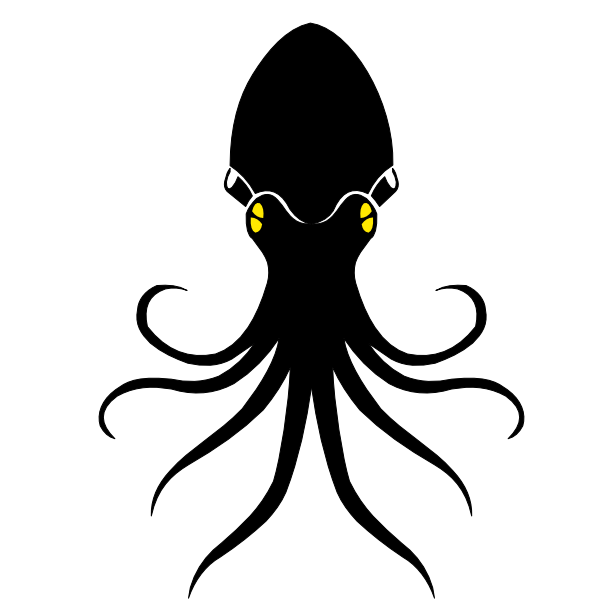
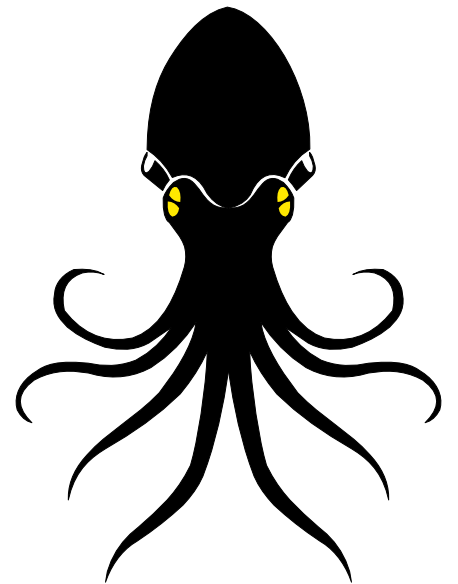
update march six

diff --git a/projects/index.html b/projects/index.html
@@ -11,8 +11,10 @@
         <ul>
             <li><a href="../index.html">Home</a></li>
             <li><a class="projy" href="../projects/index.html">Projects</a><ul>
-                  <li><a href="http://creative.colorado.edu/~dosm6711/dev/doggonauts/index.html">Doggonauts</a></li>
-               <li><a href="http://creative.colorado.edu/~dosm6711/dev/love-letters/index.html">Love Letters</a></li>
+                <li><a href="http://creative.colorado.edu/~dosm6711/dev/animation/index.html">Animation</a></li>
+                <li><a href="http://creative.colorado.edu/~dosm6711/dev/sprite-sheet/index.html">Sprite Sheet</a></li>
+                <li><a href="http://creative.colorado.edu/~dosm6711/dev/doggonauts/index.html">Doggonauts</a></li>
+                <li><a href="http://creative.colorado.edu/~dosm6711/dev/love-letters/index.html">Love Letters</a></li>
                 <li><a href="http://creative.colorado.edu/~dosm6711/web/projects/projects.html">2018</a></li>
                 <li><a href="http://creative.colorado.edu/~dosm6711/web/index.html">2017</a></li>
                 <li><a href="http://creative.colorado.edu/~dosm6711">Other</a></li>
@@ -26,6 +28,8 @@
     </nav>
     <div class="icons">
         <ul>
+          <li><a href="../animation/index.html"><img src="img/animation.png" alt="Animation" width="200" height="200"></a></li>
+           <li><a href="../sprite-sheet/index.html"><img src="img/sprite.png" alt="Doggonauts" width="200" height="200"></a></li>
             <li><a href="../doggonauts/index.html"><img src="img//client_laika.png" alt="Doggonauts" width="200" height="200"></a></li>
             <li><a href="../love-letters/index.html"><img src="img/heart.png" alt="Love Letters" width="200" height="200"></a></li>
             <li><a href="http://creative.colorado.edu/~dosm6711"><img src="img/Untitled.png" alt="Portal" width="200" height="200"></a></li>
@@ -33,7 +37,7 @@
     </div>
     <div class="welcome">
              <h1>PROJECTS</h1>
-        <p>Follow The Links</p>      
+        <p>Follow The Links</p>    
     </div>
     <footer>Location: Nile River Delta, Egypt <br>Douglas Scott Smith &copy;2018
     </footer>

diff --git a/css/stylesheet.css b/css/stylesheet.css
@@ -16,13 +16,6 @@ body{
     font-family: "Cinzel";
     color: white;
 }
-.back{
-    z-index: -1;
-    background: linear-gradient(to bottom, #1e5799 0%,#113c60 50%,#0c3b62 51%,#06243b 100%);
-    width: 100%;
-    height: 2000px;
-    position: fixed;
-}
 nav{
     background: rgba(0,0,0,.5);
     font-family: "Cinzel";
@@ -33,9 +26,7 @@ nav{
     left: 0;
     z-index:3;
     justify-content: space-between;
-    margin: 0 auto;
-    
-    
+    margin: 0 auto;    
 }
 ul{
     margin: 0 auto;
@@ -43,6 +34,7 @@ ul{
     list-style: none;
 }
 ul li{
+    color: white;
     float: left;
     width: 200px;
     height: 40px;
@@ -51,7 +43,8 @@ ul li{
     line-height: 40px;
     text-align: center;
     font-size: 20px;
-    margin-right: 50px;
+    margin-right: 25px;
+    margin-left: 25px;
     border-radius: 20px;
     
 }
@@ -66,6 +59,9 @@ ul li a:hover {
 }
 ul li ul li{
     display: none;
+    opacity: 1;
+    margin-right: 0;
+    margin-left: 0;
 }
 ul li:hover ul li{
     display: block;
@@ -79,19 +75,12 @@ h1{
     margin-top:7.5%;
     
 }
-.lovely:hover .squid{
-    background: url("../img/hearteye.png");
-}
 .squid{
+    display: flex;
+    justify-content: center;
     z-index: 1;
-    background: url("../img/squid.png");
-    background-repeat: no-repeat;
-    
-    width: 600px;
-    height: 600px;
+    max-width: 40%;
     margin: 0 auto;
-    vertical-align: middle;
-    transition: opacity 4s ease-in;
 }
 
 footer{

diff --git a/index.html b/index.html
@@ -13,6 +13,8 @@
         <ul>
             <li><a href="index.html">Home</a></li>
             <li><a class="projy" href="projects/index.html">Projects</a><ul>
+                <li><a href="http://creative.colorado.edu/~dosm6711/dev/animation/index.html">Animation</a></li>
+                 <li><a href="http://creative.colorado.edu/~dosm6711/dev/sprite-sheet/index.html">Sprite Sheet</a></li>
                  <li><a href="http://creative.colorado.edu/~dosm6711/dev/doggonauts/index.html">Doggonauts</a></li>
                 <li><a href="http://creative.colorado.edu/~dosm6711/dev/love-letters/index.html">Love Letters</a></li>
                 <li><a href="http://creative.colorado.edu/~dosm6711/web/projects/projects.html">2018</a></li>
@@ -27,7 +29,7 @@
         </ul>
     </nav>
     <h1>Douglas Scott Smith</h1>
-    <div class="squid"></div>
+    <div class="squid"><img src="img/squid.png" width="480" height="550"></div>
     <footer>Location: Colorado, USA<br>Douglas Scott Smith &copy;2018
     </footer>
 </body>

diff --git a/contact/index.html b/contact/index.html
@@ -10,6 +10,8 @@
         <ul>
             <li><a href="../index.html">Home</a></li>
             <li><a class="projy" href="../projects/index.html">Projects</a><ul>
+               <li><a href="http://creative.colorado.edu/~dosm6711/dev/animation/index.html">Animation</a></li>
+                <li><a href="http://creative.colorado.edu/~dosm6711/dev/sprite-sheet/index.html">Sprite Sheet</a></li>
                 <li><a href="http://creative.colorado.edu/~dosm6711/dev/doggonauts/index.html">Doggonauts</a></li>
                <li><a href="http://creative.colorado.edu/~dosm6711/dev/love-letters/index.html">Love Letters</a></li>
                 <li><a href="http://creative.colorado.edu/~dosm6711/web/projects/projects.html">2018</a></li>

diff --git a/projects/css/style.css b/projects/css/style.css
@@ -102,13 +102,17 @@ h1{
 }
 
 .icons ul li a{
+    width: 200px;
+    height: 200px;
     border-radius: 20px;
     background: rgba(255,255,255,.4);
     transition: .75s;
 }
 
 .icons ul li:hover a{
-    background-color: rgba(255, 168, 168, 0.49);
+    background-color: rgba(82, 135, 255, 0.83);
+    box-shadow: 0px 0px 20px 10px white;
+    
 }
 
 
